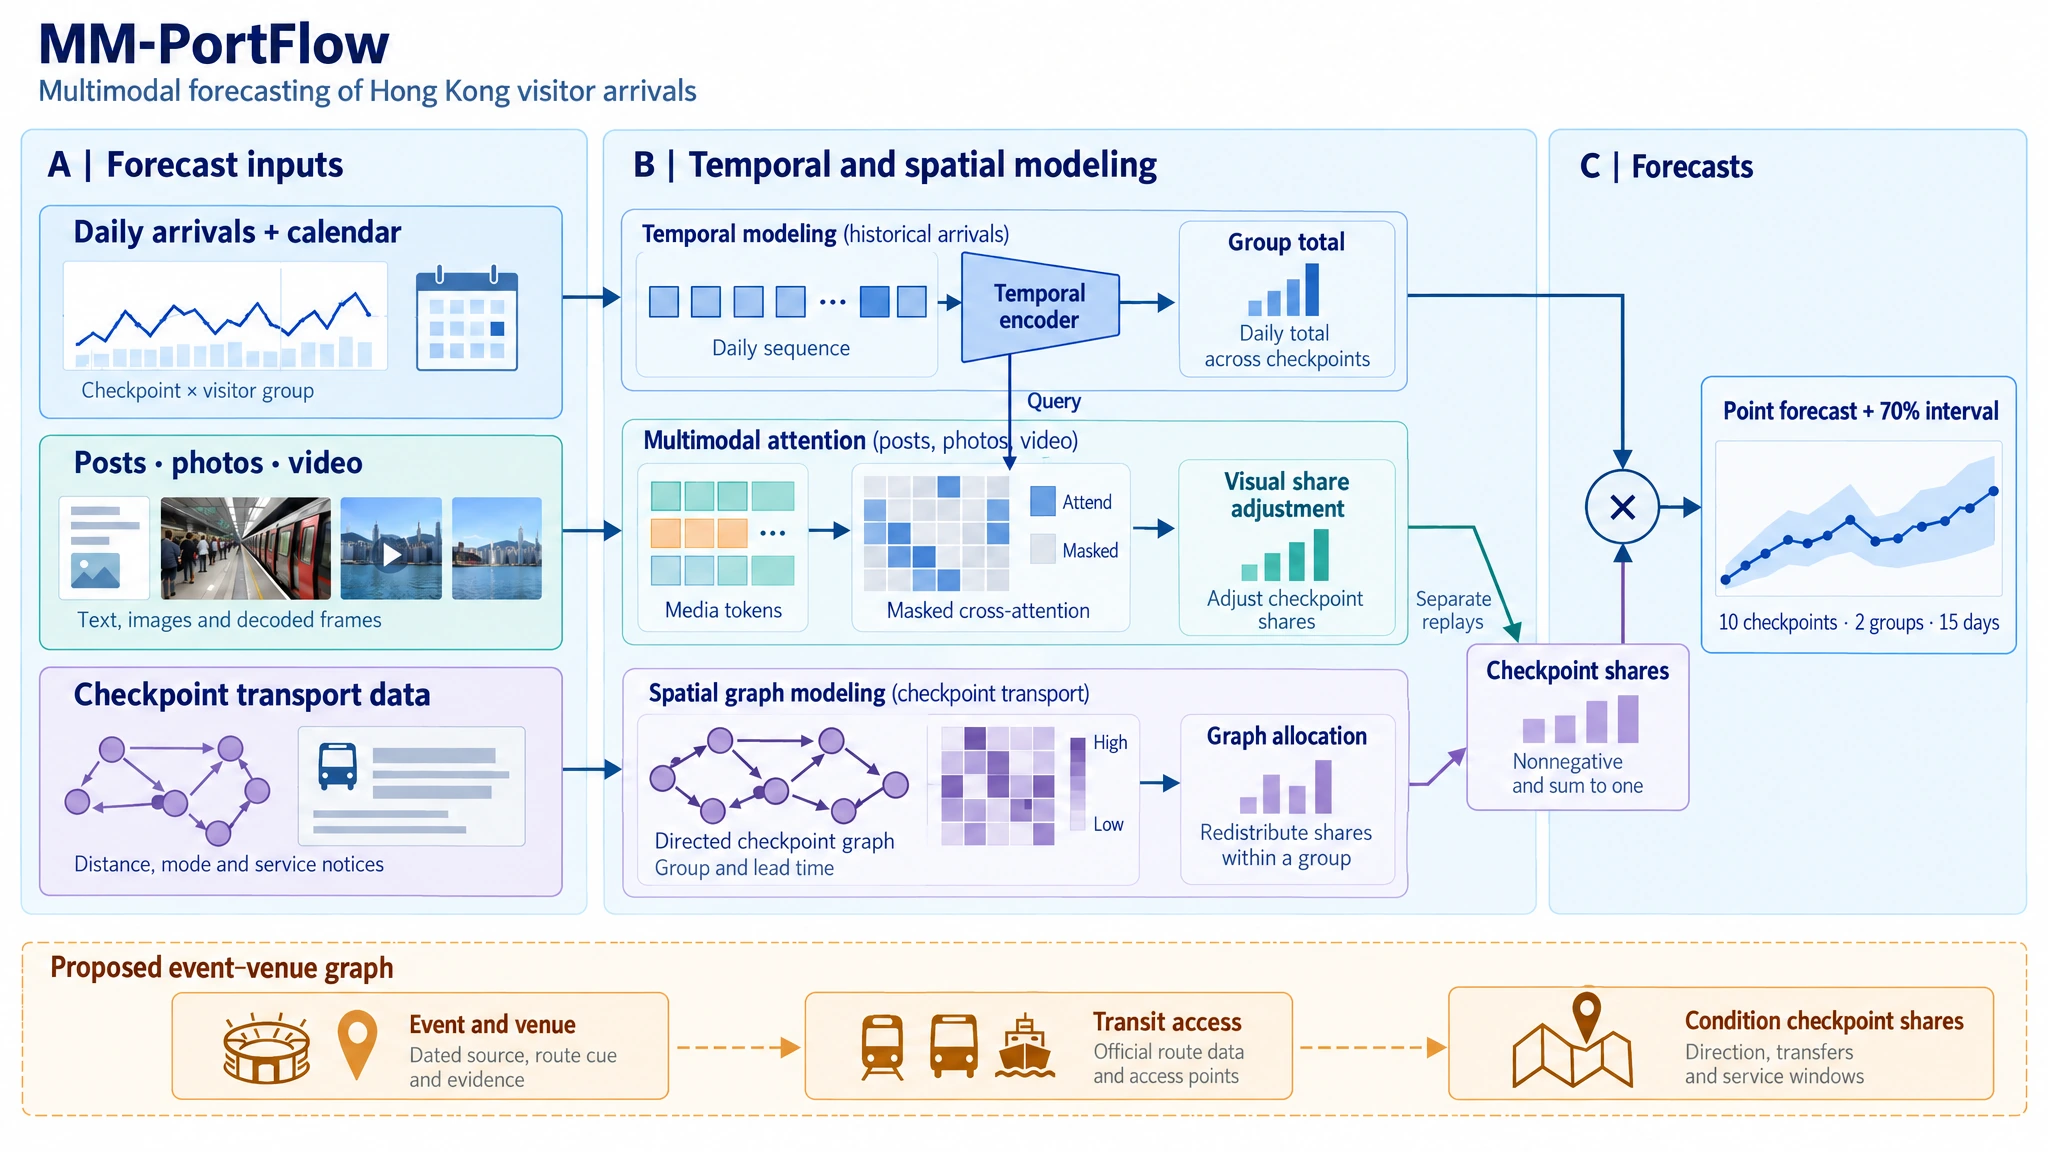
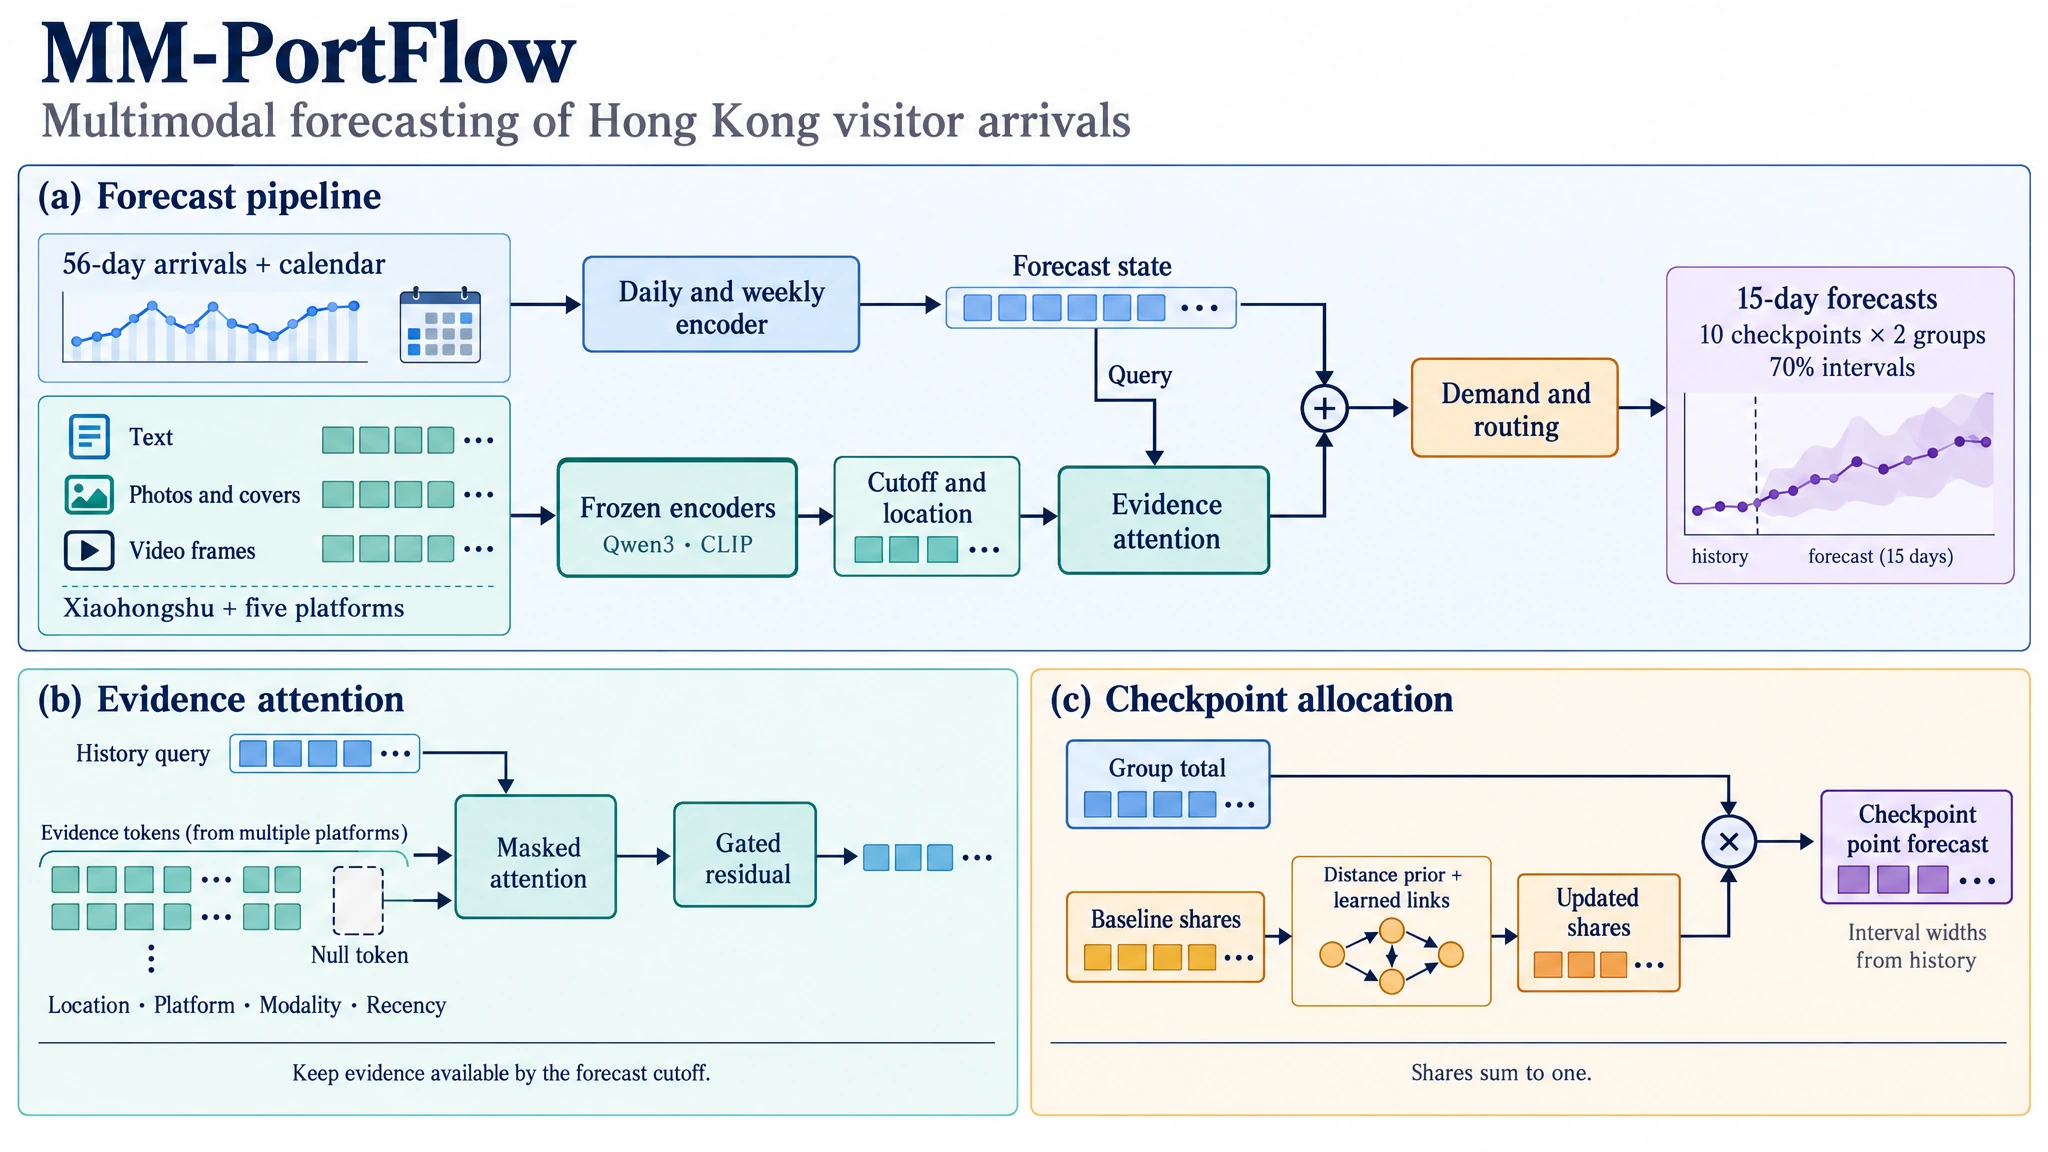
Publish the updated MM-PortFlow architecture and ablation

diff --git a/site/methods.html b/site/methods.html
@@ -7,7 +7,7 @@
   <title>Forecasting Methods | IKUN</title>
   <link rel="icon" href="assets/ikun-avatar.png" type="image/png">
   <script src="language.js?v=rehearsals"></script>
-  <link rel="stylesheet" href="style.css?v=footer-affiliations">
+  <link rel="stylesheet" href="style.css?v=architecture">
 </head>
 <body>
   <a class="skip-link" href="#top"><span class="copy-en">Skip to content</span><span class="copy-zh">跳到正文</span></a>
@@ -120,8 +120,11 @@
           <a class="text-link" href="index.html#multimodal"><span class="copy-en">View experiment ↗</span><span class="copy-zh">查看实验结果 ↗</span></a>
         </div>
         <figure class="architecture-figure" id="architecture">
-          <a href="assets/mm-portflow-sunburst.webp" aria-label="Open the full-size architecture figure" data-zh-aria="查看完整尺寸的架构图"><img src="assets/mm-portflow-sunburst.webp" alt="Daily arrivals estimate visitor group totals. Separately tested media attention and directed transport graphs adjust checkpoint shares. Totals and shares yield daily predictions and 70% intervals. The event and venue graph is proposed." data-zh-alt="日客流和日历用于估计客群总量。分别回测的多模态注意力和有向交通图调整口岸份额。结合总量与份额生成逐日预测及 70% 区间。活动与场馆图为拟议实验。" width="2048" height="1152" loading="lazy"></a>
-          <figcaption><span class="copy-en">The media and transport graph branches were tested in separate replays. The dashed inset shows the proposed event and venue graph. <a href="assets/mm-portflow-architecture.svg">Vector overview</a> · <a href="assets/forecast-architecture.svg">Attention block in detail</a></span><span class="copy-zh">多模态和交通图分支分别回测。虚线区展示拟议的活动与场馆图。<a href="assets/mm-portflow-architecture.svg">矢量概览</a> · <a href="assets/forecast-architecture.svg">注意力模块细节</a></span></figcaption>
+          <a class="architecture-image" href="assets/mm-portflow-sunburst.webp?v=xiaohongshu" aria-label="Open the full-size architecture figure" data-zh-aria="查看完整尺寸的架构图"><img src="assets/mm-portflow-sunburst.webp?v=xiaohongshu" alt="MM-PortFlow architecture. Arrival history queries time-filtered and location-matched evidence from six platforms. Citywide evidence informs visitor totals. A directed checkpoint graph updates shares to forecast daily counts and intervals." data-zh-alt="MM-PortFlow 架构。历史客流用于查询六个平台中通过时间和地点筛选的证据。全港线索用于估计客群总量，有向口岸图更新各口岸份额，生成每日点预测和区间。" width="2048" height="1152" loading="lazy"></a>
+          <figcaption>
+            <p lang="en"><strong>MM-PortFlow architecture.</strong> (a) Arrival history and six-platform evidence enter the forecast. (b) Attention weighs the available text, photos and video by location, platform, modality and recency. (c) A directed graph updates the checkpoint shares, which are multiplied by the visitor group total.</p>
+            <p lang="zh-Hans"><strong>MM-PortFlow 模型架构。</strong>（a）模型融合历史客流与包括小红书在内的六个平台。（b）注意力按地点、平台、模态和时效加权截点前可用的图文视频。（c）有向图更新各口岸份额，再乘以客群总量。</p>
+          </figcaption>
         </figure>
         <ol class="method-flow">
           <li><strong><span class="copy-en">Encode history</span><span class="copy-zh">时序编码</span></strong><span><span class="copy-en">56 days of arrivals, weekly patterns and the calendar known at cutoff.</span><span class="copy-zh">56 天日客流、周周期及截点已知日历。</span></span></li>
@@ -142,6 +145,11 @@
             <p><span class="copy-en">Cue-masked attention uses the frozen arrivals state to query eligible media roles and learn a bounded residual. In a separate attention experiment with daily training origins, five-round mean MASE was 0.962, compared with 0.959 for arrivals and calendar and 0.971 for early fusion of aligned cues.</span><span class="copy-zh">线索掩码注意力以冻结的客流状态为查询，选择有效模态并学习有界修正。在每日训练起点的独立注意力实验中，五轮平均 MASE 为 0.962，同批客流加日历为 0.959，线索早期融合为 0.971。</span></p>
           </article>
         </div>
+        <article class="card method-card" id="xiaohongshu-ablation">
+          <h3><span class="copy-en">Xiaohongshu ablation</span><span class="copy-zh">小红书消融实验</span></h3>
+          <p><span class="copy-en">Across six historical windows and three seeds, adding Xiaohongshu lowered mean MASE from 1.1052 to 1.1039 (0.12%). With the social branch kept active, MASE moved from 1.1041 to 1.1038 (0.03%). Text plus video showed the largest decrease among the modality combinations.</span><span class="copy-zh">六个历史窗口、三组种子的结果显示，加入小红书后，平均 MASE 由 1.1052 降至 1.1039（0.12%）。固定启用社媒分支时，MASE 由 1.1041 降至 1.1038（0.03%）。图文视频的模态组合中，正文加视频降幅最大。</span></p>
+          <p class="caption"><span class="copy-en">The historical study uses posting and known revision times from notes collected later. It shows no consistent improvement across windows. The prospective trial uses actual collection times and awaits observed arrivals.</span><span class="copy-zh">历史实验使用事后采集笔记的发帖时间和已知编辑时间，各窗口尚未显示一致增益。按实际取得时间生成的前瞻预测等待客流实绩评分。</span></p>
+        </article>
       </section>
       <section id="training-volume" aria-labelledby="volume-title">
         <div class="section-heading">

diff --git a/site/index.html b/site/index.html
@@ -7,7 +7,7 @@
   <title>Hong Kong Visitor Arrivals | IKUN</title>
   <link rel="icon" href="assets/ikun-avatar.png" type="image/png">
   <script src="language.js?v=rehearsals"></script>
-  <link rel="stylesheet" href="style.css?v=footer-affiliations">
+  <link rel="stylesheet" href="style.css?v=architecture">
   <link rel="stylesheet" href="guide.css?v=white-header">
   <script defer src="rehearsal.js"></script>
   <script defer src="multimodal.js"></script>
@@ -109,6 +109,10 @@
           <p><span class="copy-en">The MM-PortFlow retrospective compares media embeddings with aligned travel cues.</span><span class="copy-zh">MM-PortFlow 历史对照比较图文视频向量与对齐后的旅游线索。</span></p></div>
           <a class="text-link" href="methods.html#architecture"><span class="copy-en">Architecture ↗</span><span class="copy-zh">算法流程 ↗</span></a>
         </div>
+        <figure class="architecture-figure">
+          <a class="architecture-image" href="methods.html#architecture" aria-label="Explore the MM-PortFlow architecture" data-zh-aria="查看 MM-PortFlow 模型架构"><img src="assets/mm-portflow-sunburst.webp?v=xiaohongshu" width="2048" height="1152" loading="lazy" alt="MM-PortFlow diagram showing the arrival history, Xiaohongshu and five other platforms, evidence attention, and checkpoint allocation." data-zh-alt="MM-PortFlow 架构图展示历史客流、小红书及其他五个平台、证据注意力和口岸分流。"></a>
+          <figcaption><p lang="en">MM-PortFlow combines arrival history with evidence from six social platforms.</p><p lang="zh-Hans">MM-PortFlow 将历史客流与包括小红书在内的六个平台数据融合。</p></figcaption>
+        </figure>
         <div class="experiment-grid">
           <article class="card forecast">
             <div class="experiment-heading">

diff --git a/site/style.css b/site/style.css
@@ -230,9 +230,10 @@ footer { background: #fff; border-top: 1px solid var(--line); color: var(--muted
 .metric-list dt { font-weight: 710; }
 .metric-list dd { margin-top: 4px; }
 .architecture-figure { overflow: hidden; margin: 0 0 16px; border: 1px solid var(--line); border-radius: var(--radius); }
-.architecture-figure a { display: block; }
+.architecture-image { display: block; }
+.architecture-image:focus-visible { outline: 2px solid var(--accent); outline-offset: -4px; }
 .architecture-figure img { display: block; width: 100%; height: auto; }
-.architecture-figure figcaption { padding: 9px 13px; border-top: 1px solid var(--line); color: var(--muted); font-size: .83rem; }
+.architecture-figure figcaption { display: grid; gap: 5px; padding: 12px 16px; border-top: 1px solid var(--line); color: var(--muted); font-size: .83rem; line-height: 1.5; }
 
 @media (max-width: 1150px) {
   .experiment-grid { grid-template-columns: minmax(0, 1fr); }
